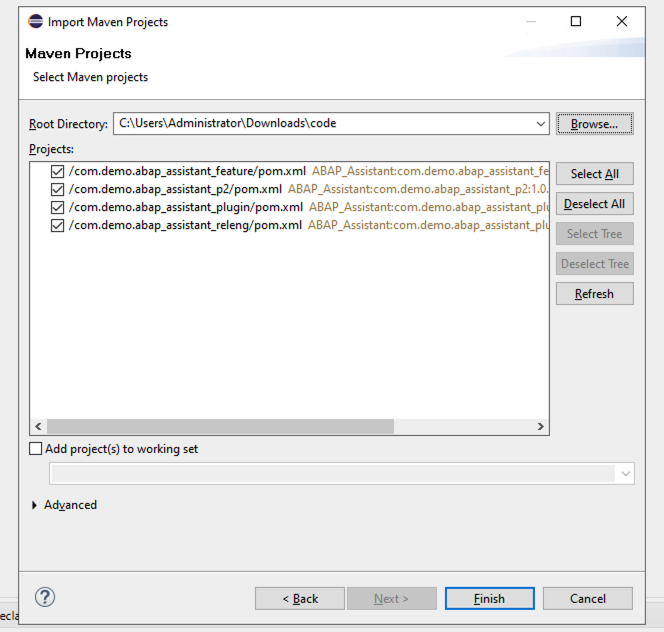
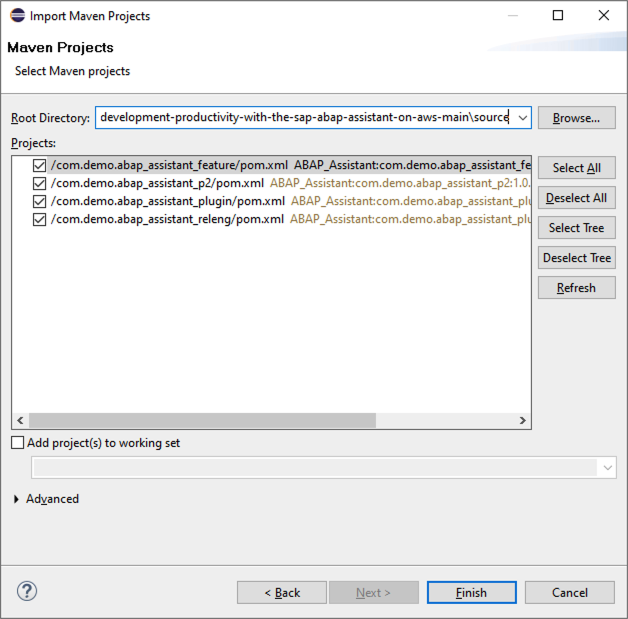
Update README.md

Changed region(s): [[0.0, 0.0, 1.0, 1.0]]

diff --git a/README.md b/README.md
@@ -23,7 +23,9 @@
 
 SAP customers are embarking on digital transformation projects, including RISE with SAP. To accelerate and de-risk transformation projects, customers want to understand ABAP programs in their SAP systems to assess the impact on business processes. Understanding existing custom code can be challenging for several reasons: 1/ lack of quality documentation for ABAP programs, 2/ unavailability of resources that built the custom code, and 3/ lack of resources needed to review and understand the legacy custom code. Also, ABAP developers spend significant time searching the existing codebase and forums for code snippets to incorporate into the ABAP programs. These challenges reduce  productivity and impact project deadlines.
 
-With the SAP ABAP Assistant using Amazon Bedrock, SAP customers can accelerate delivery of new ABAP code by generating code snippets with natural language prompts, and generate documentation for custom and standard ABAP programs, improving productivity and accelerating transformation
+With the SAP ABAP Assistant using Amazon Bedrock, SAP customers can accelerate delivery of new ABAP code by generating code snippets with natural language prompts, and generate documentation for custom and standard ABAP programs, improving productivity and accelerating transformation.
+
+This sample code consists of the SAP ABAP Assistant Eclipse plugin release and its source code.
 
 ### Architecture
 
@@ -70,7 +72,7 @@ You can use SAP ABAP Assistant plugin in **Eclipse IDE** on **MacOS** or **Windo
 
 For this guidance , we will be using the `us-east-1` region.
 
-1. Enable [AWS IAM Identity Center](https://docs.aws.amazon.com/singlesignon/latest/userguide/get-set-up-for-idc.html). Make a note of the **Instance ARN** and **AWS Access portal URL**
+1. Enable [AWS IAM Identity Center](https://docs.aws.amazon.com/singlesignon/latest/userguide/get-set-up-for-idc.html) with AWS Organizations. Make a note of the **Instance ARN** and **AWS Access portal URL** from the **Settings** page of IAM Identity Center.
 
 ![Settings page of IAM Identity Center](/assets/images/prerequisites/IAM_Identity_Center_Settings.png)
 
@@ -115,7 +117,8 @@ This guidance utilizes the `AdministratorAccess` role for deployment. For use in
     ```
 
 ## Setup
-1. [Assign permission set](https://docs.aws.amazon.com/singlesignon/latest/userguide/set-up-single-sign-on-access-to-accounts.html) created above to the user or group in IAM Identity Center.
+
+1. As per the [identity source](https://docs.aws.amazon.com/singlesignon/latest/userguide/manage-your-identity-source.html) configured in your IAM Identitiy Cetner, [assign permission set](https://docs.aws.amazon.com/singlesignon/latest/userguide/set-up-single-sign-on-access-to-accounts.html) created above to the user or group in IAM Identity Center.
 
 ### Authentication
 1. Open your preferred terminal in MacOS or Windows Operating System to run the AWS CLI commands
@@ -251,13 +254,13 @@ git clone https://github.com/aws-solutions-library-samples/guidance-for-improvin
 cd ./guidance-for-improving-application-development-productivity-with-the-sap-abap-assistant-on-aws
 ```
 
-2. Download and install **Eclipse IDE for Eclipse Committers** from this link with version 2023-09 and above.
+2. Download and install **[Eclipse IDE for Eclipse Committers](https://www.eclipse.org/downloads/packages/)** with version 2023-09 and above.
 
 3. Import the source code in Eclipse IDE for Eclipse Committers. Choose `File -> Import -> Maven -> Existing Maven projects. 
 
     ![Import wizard in Eclipse IDE for Eclipse Committers](assets/images/next-steps/import-wizard.png)
 
-4. Browser to the folder which has the downloaded source code projects. Choose **Finish**. 
+4. Browser to the `source` folder which has the downloaded source code. Choose **Finish**. 
 
     ![Import soure code in Eclipse IDE for Eclipse Committers](assets/images/next-steps/source-code-import.png)
 
@@ -288,6 +291,10 @@ cd ./guidance-for-improving-application-development-productivity-with-the-sap-ab
 10. The plugin will be generated in `com.demo.abap_assistant_p2 -> target -> repository` folder.
 
     ![repository folder where plugin will be generated](assets/images/next-steps/plugin-folder.png)
+
+11. You can install or update to the new version of the plugin in by selecting **Help -> Install New Software** in Eclipse and pointing to the `repository` folder. Alternatively, you can zip the contents under `repository` folder and point to the zip file.
+
+    ![Installing new version of SAP ABAP Assistant plugin](assets/images/next-steps/install-new-plugin-version.png)
 
 ## Cleanup
 
